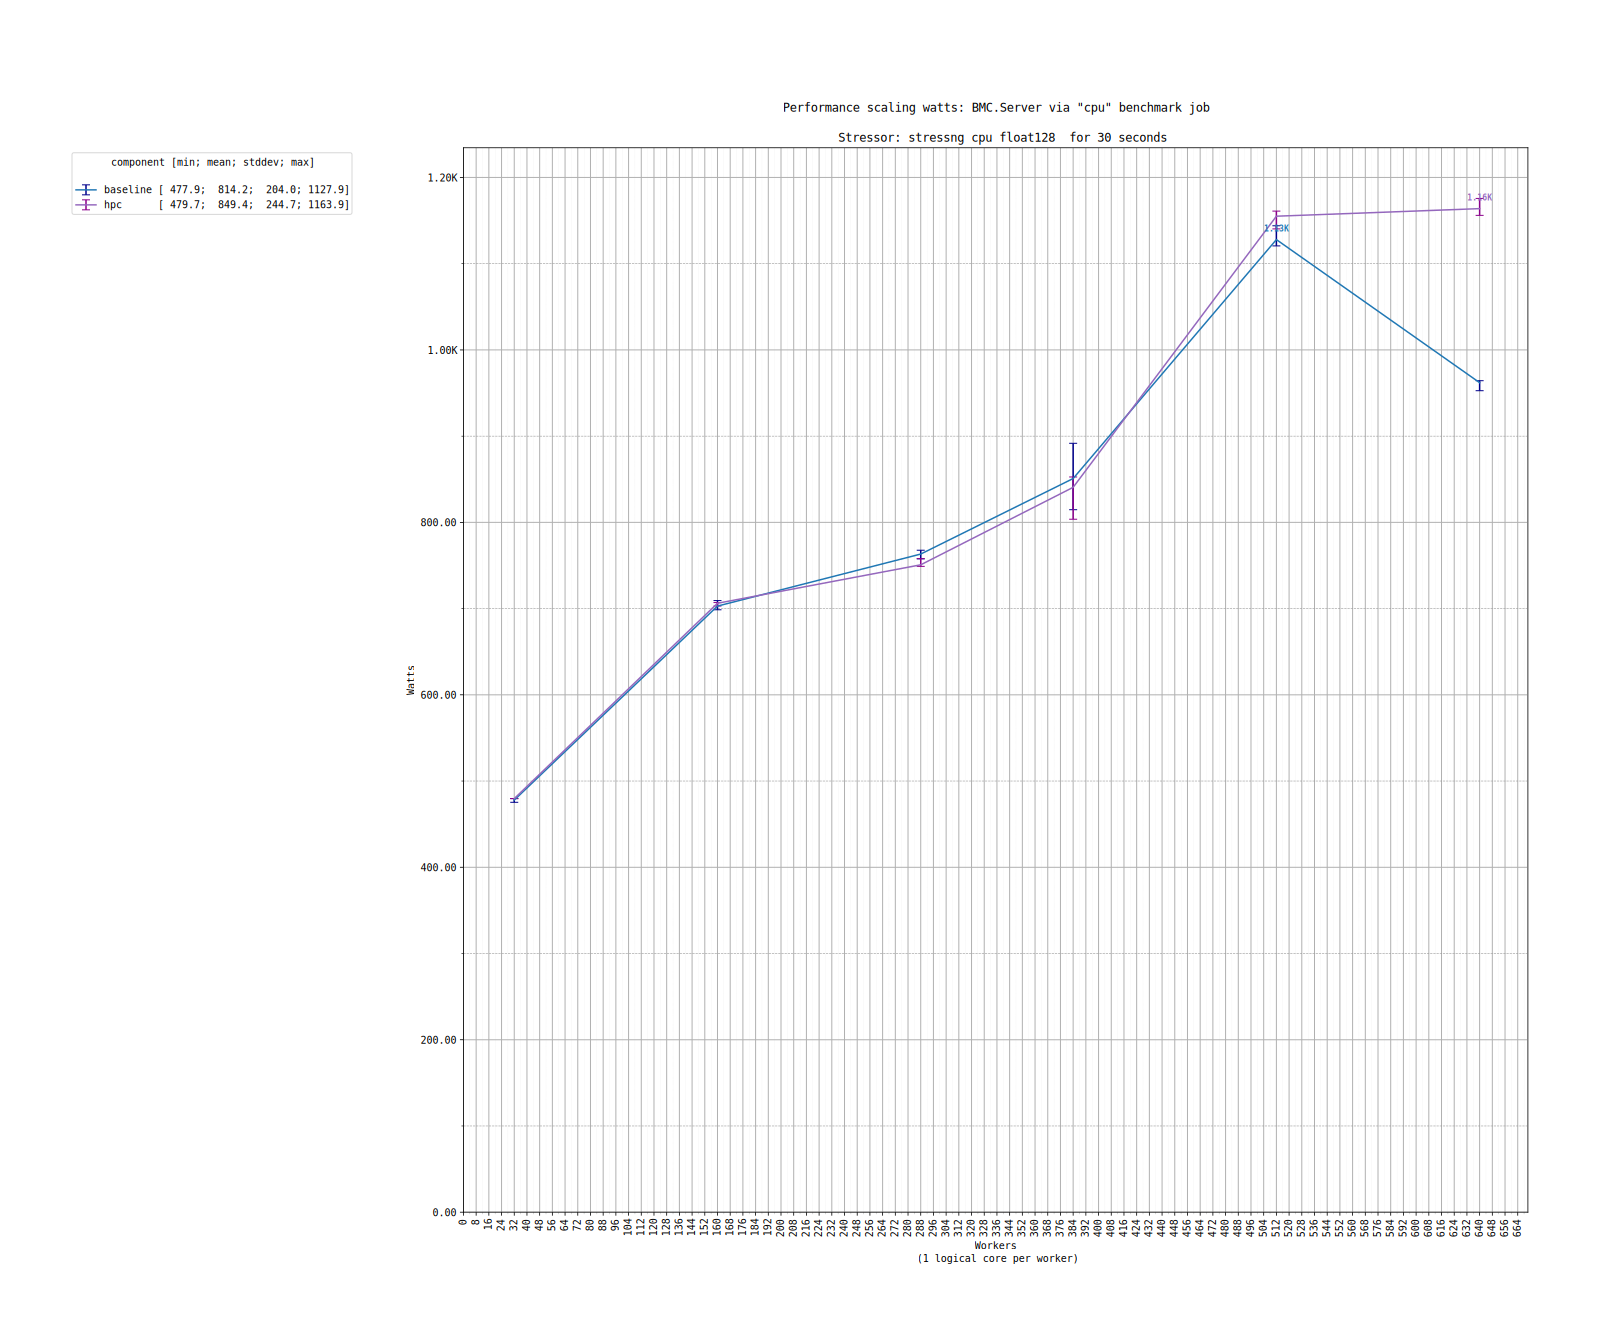
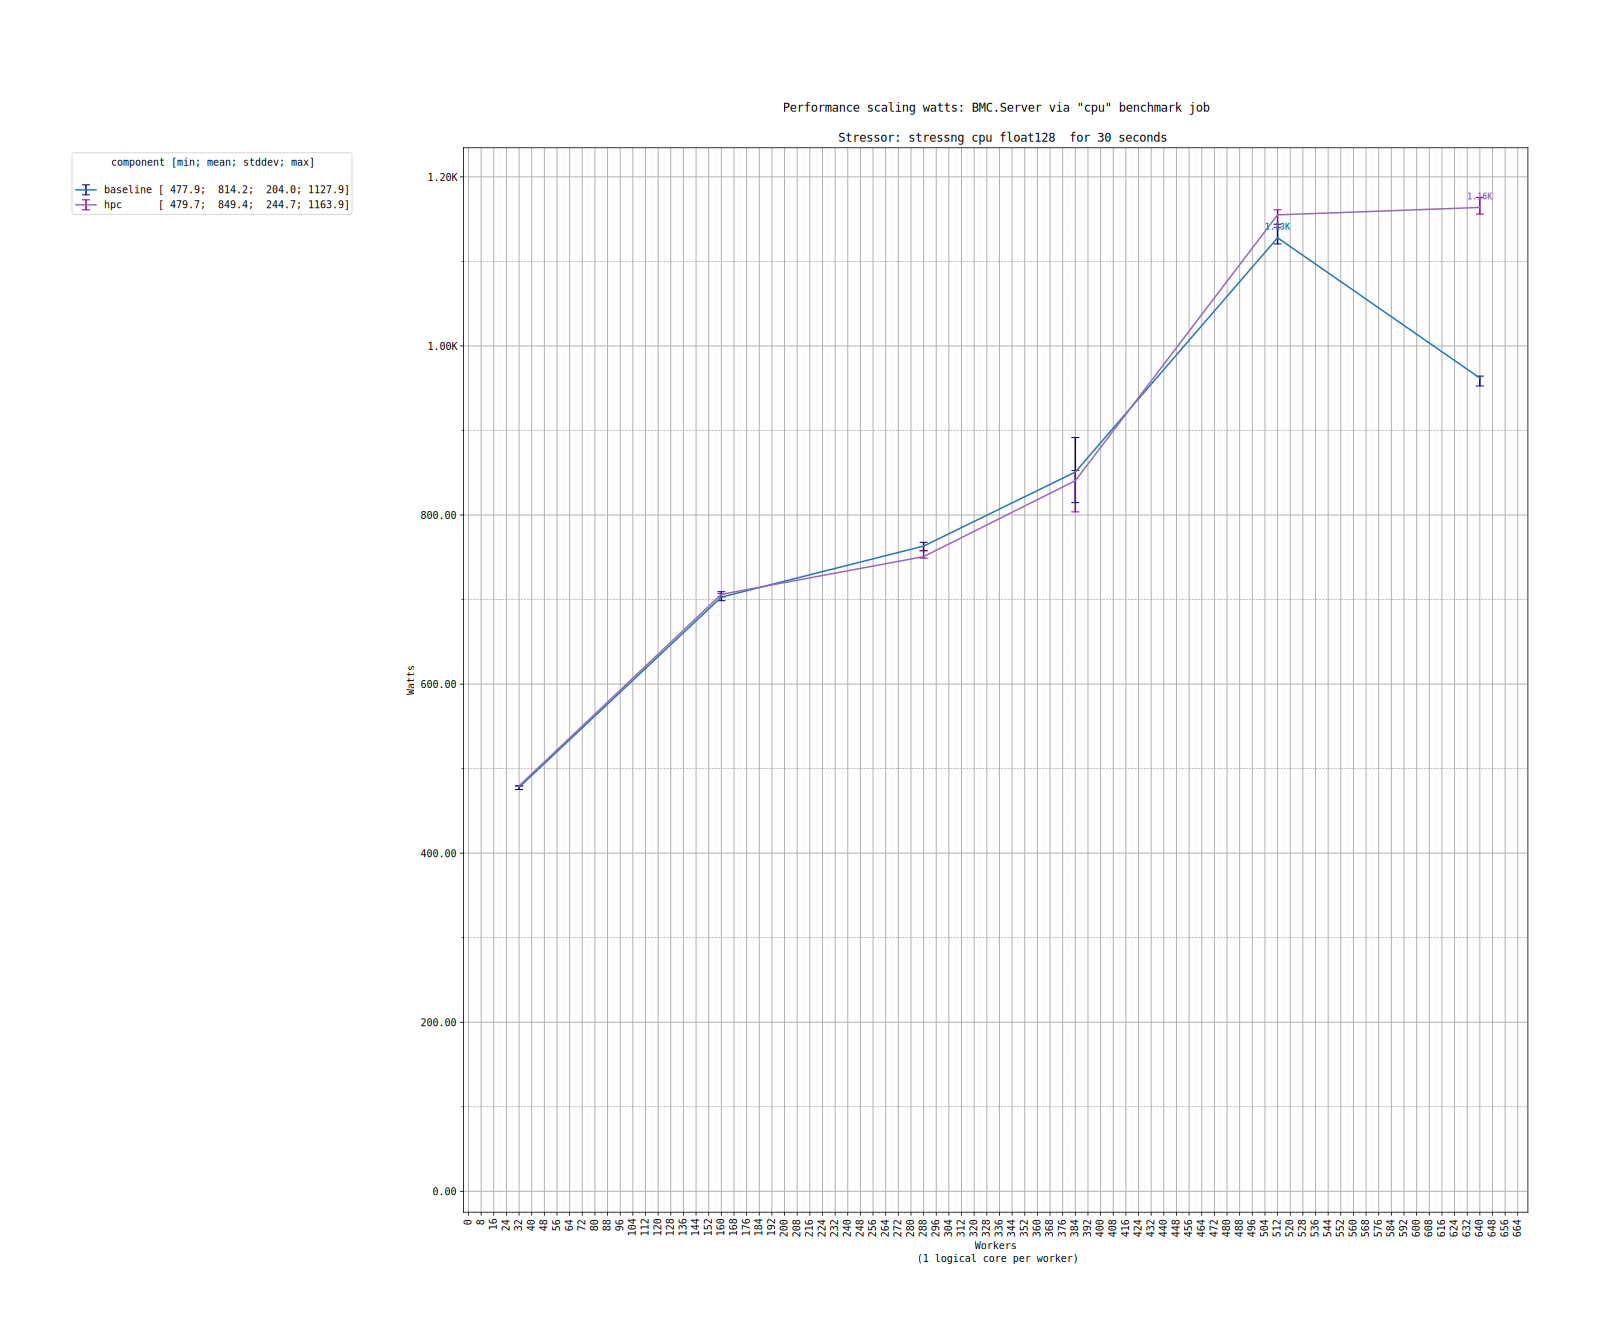
hwgraph: leave a margin before the 0 of the axes, so that a curve at 0 is seen
The axes of the graphs start at 0, on the frame: a curve at 0, like a
power falling to 0 W, or a curve starting at 0 s, is drawn on the frame
and cannot be seen.

The axes starting at 0, the y axes and the x axes, start before it by 2%
of their end, but by less than the smallest step of their ticks, so that
no tick is drawn before 0: 4 workers on the scaling graphs, ticked every
4. The ticks of the second y axis stay evenly spread from 0 to its top.

Changed region(s): [[0.2452, 0.1228, 0.9193, 0.9513]]

diff --git a/graph/graph.py b/graph/graph.py
@@ -34,6 +34,23 @@ GRAPH_TYPES = ["perf", "perf_watt", "watts", "cpu_clock"]
 # top curve is not merged with the frame. Graphs stay zero-based (comparable
 # across CPUs/products); we only push the top of the axis a bit above the data.
 YMAX_HEADROOM = 1.05
+# Room before the 0 of an axis starting at 0, as a share of its end, so that a curve at 0, or
+# starting at 0, is not merged with the frame
+ZERO_MARGIN = 0.02
+# The most of the smallest tick step the room takes, so that no tick is drawn before 0
+ZERO_MARGIN_STEP = 0.4
+
+
+def zero_margin(axis, end: float) -> float:
+    """The start of an axis from 0 to end, before 0 by ZERO_MARGIN of its end, but less than
+    the smallest step of its ticks, major or minor: no tick is drawn before 0."""
+    margin = end * ZERO_MARGIN
+    steps = [np.diff(ticks).min() for ticks in (axis.get_majorticklocs(), axis.get_minorticklocs()) if len(ticks) > 1]
+    if steps:
+        margin = min(margin, ZERO_MARGIN_STEP * min(steps))
+    return -margin
+
+
 # The entries a legend beside the axes holds within their height: beyond, it is longer than the graph
 MAX_LEGEND_ITEMS = 36
 
@@ -130,12 +147,17 @@ class Graph:
             if data_top and 0 < data_top < float("inf"):
                 ymax = data_top * YMAX_HEADROOM
         self.ax.set_ylim(None, ymin=0, ymax=ymax, emit=True, auto=True)
+        self.ax.set_ylim(bottom=zero_margin(self.ax.yaxis, self.ax.get_ylim()[1]))
         # If we have a 2nd axis, let's prepare it
         if self.ax2:
             self.ax2.set_ylim(None, ymin=0, ymax=self.y2_max, emit=True, auto=True)
+            top = self.ax2.get_ylim()[1]
+            self.ax2.set_ylim(bottom=zero_margin(self.ax2.yaxis, top))
             self.ax2.yaxis.set_major_formatter(FuncFormatter(self.human_format))
             self.fig.tight_layout()  # otherwise the right y-label is slightly clipped
-            self.ax2.yaxis.set_major_locator(matplotlib.ticker.LinearLocator(len(self.ax.get_yticks()) - 2))
+            # Evenly spread from 0 to the top, the margin below 0 having no tick
+            ticks = len(self.ax.get_yticks()) - 2
+            self.ax2.yaxis.set_major_locator(matplotlib.ticker.FixedLocator(np.linspace(0, top, ticks)))
 
         # If we have less than 15 points to render, let's use the real time interval
         if points_to_plot and points_to_plot < 30:
@@ -154,6 +176,8 @@ class Graph:
             )
         else:
             self.ax.xaxis.set_minor_locator(AutoMinorLocator())
+        if x_major_locator:
+            self.ax.set_xlim(left=zero_margin(self.ax.xaxis, self.ax.get_xlim()[1]))
 
         self.ax.yaxis.set_major_formatter(FuncFormatter(self.human_format))
         self.prepare_grid()

diff --git a/graph/cdu.py b/graph/cdu.py
@@ -8,7 +8,7 @@ import matplotlib.pyplot as plt
 import numpy as np
 
 from graph.common import context_header
-from graph.graph import Graph, statistics_in_label
+from graph.graph import Graph, statistics_in_label, zero_margin
 from graph.trace import Trace
 from hwbench.bench.monitoring_structs import GPU_FAMILY
 
@@ -66,6 +66,7 @@ def graph_cdu(args, trace: Trace, bench_name: str, output_dir) -> int:
             graph.prepare_axes(30, 5, points_to_plot=metadata["samples_count"], interval=metadata["iteration_time"])
             # A failure at either end must not shorten the visible benchmark period.
             graph.get_ax().set_xlim(0, max(1, bench.duration()))
+            graph.get_ax().set_xlim(left=zero_margin(graph.get_ax().xaxis, max(1, bench.duration())))
             graph.render()
             count += 1
         count += graph_cdu_host(args, trace, bench, name, data, directory)
@@ -165,5 +166,6 @@ def graph_cdu_host(args, trace: Trace, bench, name: str, data: dict, directory) 
         )
     graph.prepare_axes(30, 5, points_to_plot=metadata["samples_count"], interval=metadata["iteration_time"])
     graph.get_ax().set_xlim(0, max(1, bench.duration()))
+    graph.get_ax().set_xlim(left=zero_margin(graph.get_ax().xaxis, max(1, bench.duration())))
     graph.render()
     return 1

diff --git a/graph/test_group.py b/graph/test_group.py
@@ -41,3 +41,26 @@ def test_human_format():
         "1.50K",
         "1.00M",
     ]
+
+
+def test_zero_is_not_merged_with_the_frame(tmp_path):
+    """The axes starting at 0 leave a margin before it, without any negative tick shown."""
+    from types import SimpleNamespace
+
+    from graph.graph import Graph
+
+    args = SimpleNamespace(width=1920, height=1080, title="", format="png", engine="cairo", dpi=100, verbose=False)
+    graph = Graph(args, "title", "x", "y", tmp_path, "zero")
+    graph.get_ax().plot([0, 600], [0, 500])
+    graph.prepare_axes(30, 5, (None, 50, 25))
+    # 2% of 670 workers would be beyond the step of 4 of the minor ticks: the margin stays under it
+    workers = Graph(args, "title", "x", "y", tmp_path, "workers")
+    workers.get_ax().plot([32, 670], [1, 2])
+    workers.prepare_axes(8, 4)
+    assert -4 < workers.get_ax().get_xlim()[0] < 0
+    for limits, ticks in (
+        (graph.get_ax().get_xlim(), graph.get_ax().get_xticks()),
+        (graph.get_ax().get_ylim(), graph.get_ax().get_yticks()),
+    ):
+        assert limits[0] < 0
+        assert all(tick >= 0 for tick in ticks if limits[0] <= tick <= limits[1])

diff --git a/graph/scaling.py b/graph/scaling.py
@@ -21,6 +21,7 @@ from graph.graph import (
     numa_aggregated_components,
     numa_core_blocks,
     statistics_in_label,
+    zero_margin,
 )
 from graph.trace import CPU_SCALING_UNIT, GPU_SCALING_UNIT, ScalingUnit
 from hwbench.bench.monitoring_structs import CORE_FAMILY, MonitoringContextKeys
@@ -619,6 +620,7 @@ def render_scaling_linearity_deviation(args, temp_outdir, job: str, emp: str) ->
             ax.set_xlim(xmin=0)
             ax.xaxis.set_major_locator(MultipleLocator(8))
             ax.xaxis.set_minor_locator(MultipleLocator(4))
+            ax.set_xlim(left=zero_margin(ax.xaxis, ax.get_xlim()[1]))
             # Grid to ease reading the depth: solid major lines plus a fainter dashed
             # midline between ticks (Y midline kept between the major Y ticks).
             ax.yaxis.set_minor_locator(AutoMinorLocator(2))
